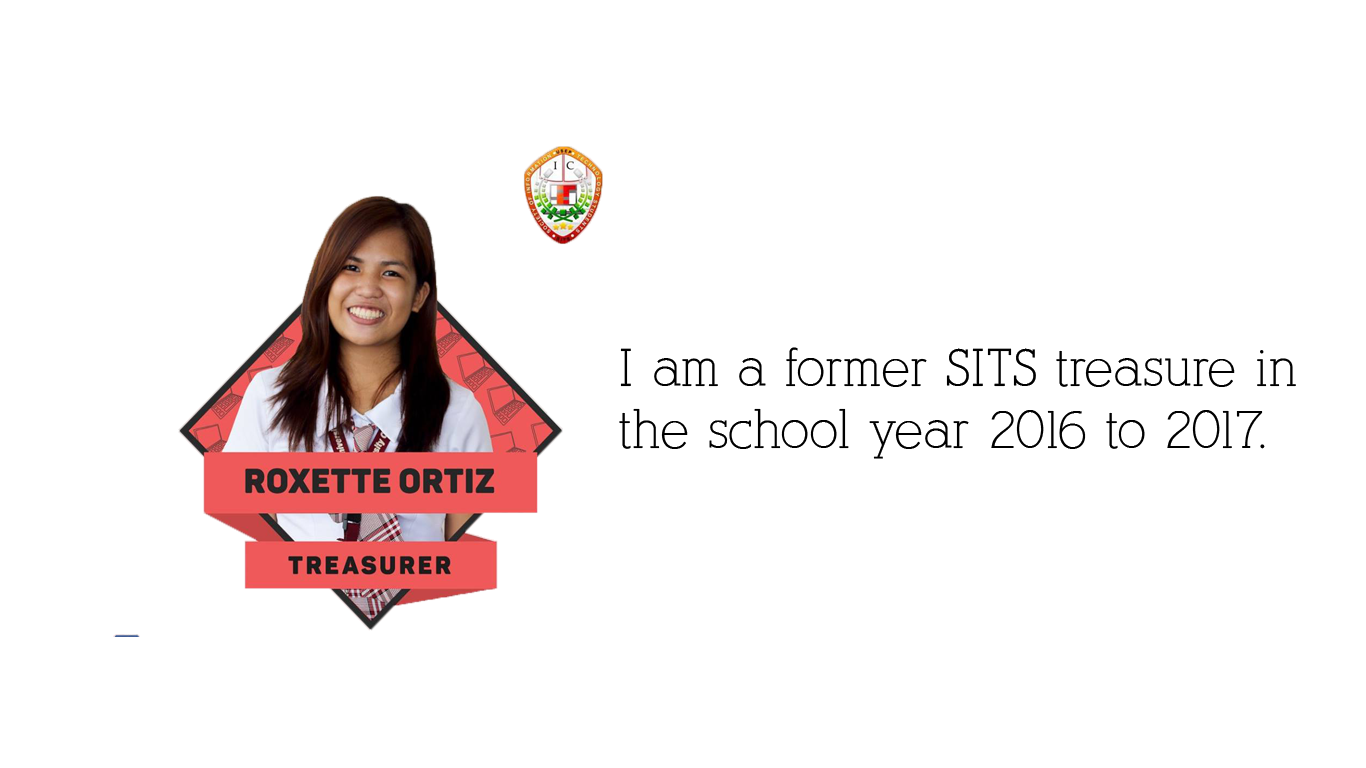
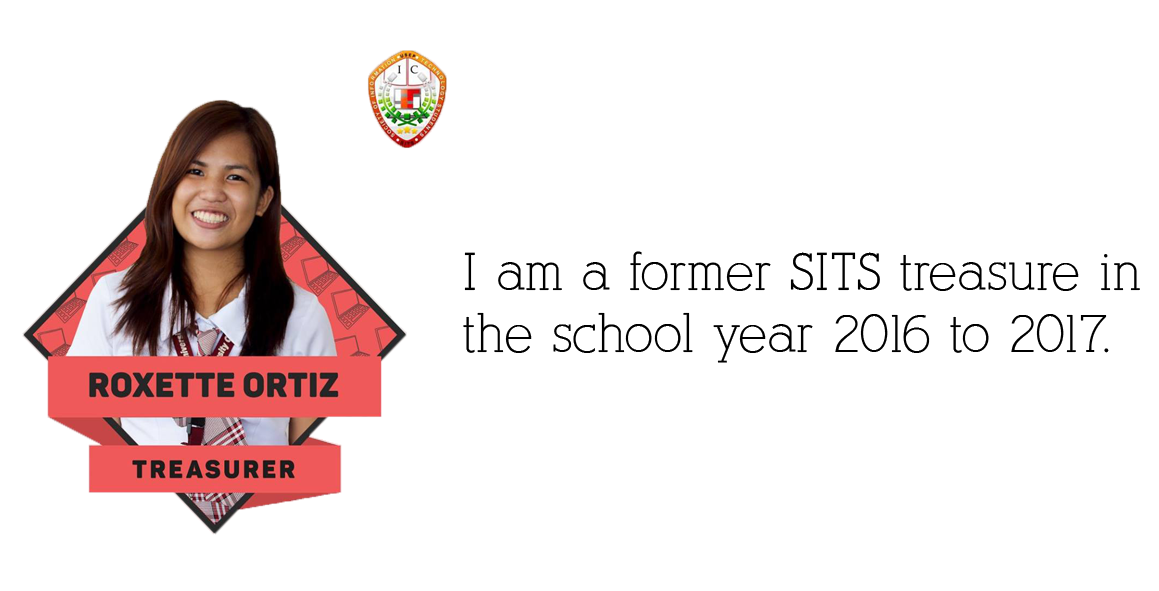
update html and css file

Changed region(s): [[0.0, 0.1523, 0.994, 0.9137], [0.3106, 0.0609, 0.4659, 0.335]]

diff --git a/academic.html b/academic.html
@@ -27,7 +27,7 @@
 				</div>
 				
 				<div id="frame">
-					<iframe height="300px" width="100%" src="sits.html" name="iframe_a"></iframe>
+					<iframe height="300px" width="100%"frameborder="0" src="sits.html" name="iframe_a"></iframe>
 				</div>
 				
 				<center><table>

diff --git a/sits.html b/sits.html
@@ -1,6 +1,6 @@
 <!DOCTYPE html>
 <html>
 	<body>
-		<center><img src="image/sits1.png" height="300%" width="100%" ></center> 
+		<center><img src="image/sits1.png" height="65%"width="65%"  ></center> 
 	</body>
 </html>

diff --git a/style.css b/style.css
@@ -105,5 +105,6 @@ a{
   overflow: hidden;
   width: 860px;
   height: 100%;
+ 
 }
 
